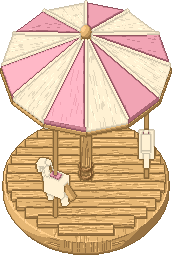
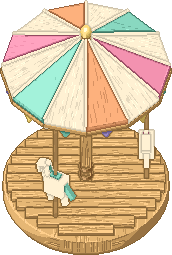
遊具に水面・ガラス・磨いた金属の反射を加える

diff --git a/tools/art/handoff3d/rides.py b/tools/art/handoff3d/rides.py
@@ -6,22 +6,29 @@
 カップ（2×2）：半径1.38の台に半径0.70の軌道を切り、半径
 0.41のカップ2個を置く。カップの壁と底は一体。取っ手は外壁に
 両端を止め、内側の座面は底から少し上に取りつける。
+中央に青い釉薬の水盤を固定し、底から0.07上に水面を張る。
 空中ブランコ（2×2）：高さ4.16の柱を半径0.72の基礎に固定。
 半径0.72の回転頭に3組の吊り材をつなぎ、高さ1.57の座板を吊るす。
 観覧車（3×2）：左右に開く支柱を基礎から車軸（高さ2.94）へ
 つなぐ。半径1.55の二重の輪を8本のスポークで車軸に固定。
 4個のゴンドラを輪の横軸に吊り、座面を横軸の0.49下に置く。
+窓は背と正面にガラスをはめる。こわれた絵は片側の窓が外れる。
 """
 from math import cos, sin, sqrt, tau
 
 from common import WOOD
 
-PINK = (241, 164, 180)
+PINK = (243, 146, 176)
 CREAM = (255, 241, 211)
 MINT = (143, 208, 186)
+RIDE_MINT = (137, 216, 192)
 GOLD = (222, 176, 116)
 TRIM = (168, 118, 111)
-BLUE = (206, 233, 231)
+BLUE = (166, 222, 237)
+LILAC = (189, 169, 231)
+PEACH = (253, 177, 125)
+SUN = (252, 219, 126)
+SILVER = (189, 205, 216)
 BRASS = (184, 136, 83)
 LEATHER = (159, 102, 95)
 SEATS = {"merry": 3, "cup": 2, "skyswing": 3, "wheel": 4}
@@ -42,7 +49,7 @@ def carousel(m, phase, broken, seats):
     m.rod((0, 0, .24), (.13 if broken else 0, 0, 2.65), .075, GOLD, surface="wood")
     for z in (.34, .47, 1.95):
         m.lathe([(.082, z), (.105, z), (.105, z+.04), (.082, z+.04)],
-                BRASS, z*.05 if broken else 0, surface="metal")
+                BRASS, z*.05 if broken else 0, surface="polished")
     roof_x = .18 if broken else 0
     for panel in range(12):
         if broken and panel in (1, 2):
@@ -51,14 +58,21 @@ def carousel(m, phase, broken, seats):
         b = (panel + 1) * tau / 12
         x, y, z = polar(1.31, a, 2.14 + .10 * cos(a) * broken)
         u, v, w = polar(1.31, b, 2.14 + .10 * cos(b) * broken)
-        color = PINK if panel % 2 else CREAM
+        color = (PINK, CREAM, PEACH, CREAM, RIDE_MINT, CREAM)[panel % 6]
         m.part(color, surface="cloth")
         m.sc.tri((roof_x, 0, 2.65), (x, y, z), (u, v, w), m.color(color))
         m.sc.quad((x, y, z), (u, v, w), (u, v, w-.10),
                   (x, y, z-.10), m.color(color))
         m.rod((x, y, z-.095), (u, v, w-.095), .019, GOLD)
         m.rod((roof_x, 0, 2.65), (x, y, z+.015), .014, CREAM)
-    m.ball((roof_x, 0, 2.69), .09, GOLD)
+        if not broken:
+            cx, cy = (x+u)/2, (y+v)/2
+            m.part((RIDE_MINT, SUN, LILAC)[panel % 3], surface="cloth")
+            m.sc.tri((x*.34+cx*.66, y*.34+cy*.66, z-.10),
+                     (u*.34+cx*.66, v*.34+cy*.66, w-.10),
+                     (cx, cy, (z+w)/2-.235),
+                     m.color((RIDE_MINT, SUN, LILAC)[panel % 3]))
+    m.ball((roof_x, 0, 2.69), .09, SUN, surface="polished")
     for index in range(3):
         angle = phase + index * tau / 3
         x, y, z = polar(.94, angle, .84)
@@ -70,18 +84,19 @@ def carousel(m, phase, broken, seats):
         if broken and index == 1:
             m.rod((x, y, .31), horse(.16, -.33), .029, TRIM)
             continue
-        m.rod((x, y, .27), (x, y, 2.15), .024, GOLD)
+        trim = (PINK, RIDE_MINT, LILAC)[index]
+        m.rod((x, y, .27), (x, y, 2.15), .024, GOLD, surface="polished")
         m.rod(horse(-.17, 0), horse(.15, 0), .115, CREAM)
         m.rod(horse(.12, .02), horse(.18, .25), .065, CREAM)
         m.rod(horse(.15, .23), horse(.30, .19), .065, CREAM)
         m.rod(horse(.15, .23), horse(.13, .32), .027, CREAM)
-        m.rod(horse(-.16, .025), horse(-.32, -.13), .038, GOLD)
-        m.rod(horse(.095, .15), horse(.145, .247), .028, GOLD)
+        m.rod(horse(-.16, .025), horse(-.32, -.13), .038, trim)
+        m.rod(horse(.095, .15), horse(.145, .247), .028, trim)
         m.ball(horse(.235, .234), .025, LEATHER)
         m.rod(horse(.205, .15), horse(.27, .20), .017, LEATHER)
         for along in (-.12, .13):
             m.rod(horse(along, -.03), horse(along-.05, -.28), .039, CREAM)
-        m.rod(horse(-.075, .105), horse(.075, .105), .045, PINK)
+        m.rod(horse(-.075, .105), horse(.075, .105), .045, trim)
         seats.append(horse(0, .14))
     if broken:
         m.rod((-.91, .63, .33), (-.42, .88, .39), .052, CREAM)
@@ -89,33 +104,48 @@ def carousel(m, phase, broken, seats):
 
 def cups(m, phase, broken, seats):
     m.lathe([(0, 0), (1.32, 0), (1.38, .11), (1.38, .23),
-             (1.30, .30), (0, .30)], MINT)
-    m.lathe([(0, .30), (.12, .30), (.10, .67), (0, .69)], GOLD)
-    m.ball((0, 0, .70), .10, PINK)
+             (1.30, .30), (0, .30)], RIDE_MINT)
+    m.lathe([(0,.30),(.11,.30),(.105,.49),(.169,.54),(.244,.64),
+             (.253,.68),(.253,.703),(.213,.703),(.184,.602),
+             (0,.601)], BLUE, surface="enamel")
+    m.lathe([(.229,.69),(.256,.69),(.258,.713),(.223,.713)],
+            CREAM, surface="enamel")
+    m.lathe([(0,.60),(.048,.60),(.037,.743),(0,.765)], GOLD, surface="polished")
+    finial = (0, 0, .775)
+    m.ball(finial, .054, SUN, surface="polished")
+    if not broken:
+        m.water_disk(.222, .674, (102, 204, 233), (finial, .054, SUN))
     m.lathe([(1.29,.231),(1.37,.231),(1.36,.265),(1.29,.265)], CREAM)
     for i in range(12):
-        m.ball(polar(1.29, i*tau/12, .262), .025, BRASS, surface="metal")
+        m.ball(polar(1.29, i*tau/12, .269), .036,
+               (SUN, PEACH, LILAC)[i % 3], surface="enamel")
     for index in range(2):
         angle = phase + index * tau / 2
         x, y, _ = polar(.70, angle, 0)
         z = .32
-        color = PINK if index else GOLD
+        color = PINK if index else LILAC
         first = m.sc.pid
         m.lathe([(0, z), (.24, z), (.34, z+.13), (.41, z+.47),
-                 (.355, z+.47), (.295, z+.16), (0, z+.16)], color, x, y)
+                 (.355, z+.47), (.295, z+.16), (0, z+.16)], color, x, y,
+                surface="enamel")
         m.lathe([(.344, z+.20), (.365, z+.20), (.369, z+.23),
                  (.349, z+.23)], CREAM, x, y)
         m.lathe([(.357, z+.47), (.412, z+.47), (.412, z+.52),
-                 (.357, z+.52), (.357, z+.47)], CREAM, x, y)
-        m.box((x-.19, y-.10, z+.16), (x+.19, y+.05, z+.22), MINT)
-        m.rod((x,y,z+.15), (x,y,z+.31), .033, BRASS, surface="metal")
+                 (.357, z+.52), (.357, z+.47)], CREAM, x, y, surface="enamel")
+        for j in range(8):
+            a = angle+j*tau/8
+            dx, dy, dz = polar(.379, a, z+.30)
+            m.ball((x+dx,y+dy,dz), .035, SUN, surface="enamel")
+        m.box((x-.19, y-.10, z+.16), (x+.19, y+.05, z+.22), RIDE_MINT)
+        m.rod((x,y,z+.15), (x,y,z+.31), .033, BRASS, surface="polished")
         wheel = [(x+.095*cos(i*tau/20), y+.095*sin(i*tau/20), z+.31)
                  for i in range(21)]
         m.tube(wheel, .018, CREAM)
         if not (broken and index == 1):
             m.tube([(x+(.34+.13*sin(k*tau/16))*cos(angle),
                      y+(.34+.13*sin(k*tau/16))*sin(angle),
-                     z+.28+.12*cos(k*tau/16)) for k in range(9)], .035, color)
+                     z+.28+.12*cos(k*tau/16)) for k in range(9)], .035,
+                   color, surface="enamel")
         if broken and index == 1:
             m.tilt(first, (x, y, z), -.31)
         seats.append((x, y, z+.22))
@@ -127,33 +157,38 @@ def swing(m, phase, broken, seats):
     m.lathe([(0, 0), (.68, 0), (.72, .11), (.67, .22),
              (.31, .27), (0, .27)], GOLD)
     top = (.23 if broken else 0, 0, 4.16)
-    m.rod((0, 0, .22), top, .079, GOLD, surface="metal")
+    m.rod((0, 0, .22), top, .079, GOLD, surface="polished")
     m.lathe([(.13,.22),(.23,.22),(.19,.34),(.16,.49),(.10,.49)],
-            BRASS, surface="metal")
+            BRASS, surface="polished")
     for i in range(6):
-        m.ball(polar(.59, i*tau/6, .216), .029, BRASS, surface="metal")
+        m.ball(polar(.59, i*tau/6, .216), .029, BRASS, surface="polished")
     m.lathe([(0, 4.04), (.74, 4.04), (.78, 4.17), (.71, 4.25),
-             (.10, 4.42), (0, 4.42)], PINK, top[0])
+             (.10, 4.42), (0, 4.42)], PINK, top[0], surface="enamel")
+    m.lathe([(.75,4.08),(.782,4.08),(.782,4.124),(.75,4.124)], SUN,
+            top[0], surface="polished")
     m.ball((top[0], 0, 4.48), .081, CREAM)
     for i in range(12):
         x, y, z = polar(.742, i*tau/12, 4.17)
-        m.ball((x+top[0], y, z), .041, CREAM)
+        m.ball((x+top[0], y, z), .041, (CREAM, SUN, LILAC)[i % 3],
+               surface="enamel")
     for index in range(3):
         angle = phase + index * tau / 3
         x, y, z = polar(1.20 if not broken else .81, angle, 1.57)
         hx, hy, hz = polar(.70, angle, 4.10)
         if broken and index == 1:
-            m.rod((hx+top[0], hy, hz), (hx+.38, hy, 2.40), .020, MINT)
+            m.rod((hx+top[0], hy, hz), (hx+.38, hy, 2.40), .020, RIDE_MINT)
             continue
         for side in (-1, 1):
             m.rod((hx+top[0]+side*.09, hy, hz),
-                  (x+side*.15, y, z+.03), .019, MINT)
-        m.box((x-.19, y-.12, z-.05), (x+.19, y+.12, z+.04), PINK)
+                  (x+side*.15, y, z+.03), .019, RIDE_MINT)
+        color = (PINK, RIDE_MINT, LILAC)[index]
+        m.box((x-.19, y-.12, z-.05), (x+.19, y+.12, z+.04), color,
+              surface="enamel")
         m.box((x-.19, y-.13, z+.04), (x+.19, y-.08, z+.21), CREAM,
               surface="cloth")
         for side in (-1, 1):
             sx = x+side*.175
-            m.rod((sx,y-.10,z+.13), (sx,y+.095,z+.13), .024, PINK)
+            m.rod((sx,y-.10,z+.13), (sx,y+.095,z+.13), .024, color)
             m.ball((sx,y+.09,z+.12), .026, CREAM)
         seats.append((x, y, z+.04))
 
@@ -168,8 +203,8 @@ def wheel(m, phase, broken, seats):
     m.box((-.35,.62,.074),(.35,.72,.119), WOOD)
     for side in (-1, 1):
         for y in (-.58, .51):
-            m.rod((side*1.06, y, .12), (hub[0], y, hub[2]), .089, MINT,
-                  surface="metal")
+            m.rod((side*1.06, y, .12), (hub[0], y, hub[2]), .089, RIDE_MINT,
+                  surface="polished")
             x = side*1.06
             m.box((x-.15,y-.10,.144), (x+.15,y+.10,.21), BRASS)
             for dx in (-.109, .109):
@@ -186,14 +221,19 @@ def wheel(m, phase, broken, seats):
             angles = [tau*i/48 for i in range(4, 45)]
         else:
             angles = [tau*i/48 for i in range(49)]
-        m.tube([rim(a, y) for a in angles], .046, PINK)
+        m.tube([rim(a, y) for a in angles], .046, PINK, surface="polished")
         for index in range(8):
             a = phase + index*tau/8
             if not broken and index % 2 == 0:
                 m.tube([rim(a+tau*j/192, y, 1.572) for j in range(-4, 5)],
-                       .039, CREAM)
+                       .039, SUN, surface="polished")
             if not broken or index not in (1, 7):
-                m.rod((hub[0], y, hub[2]), rim(a, y), .024, GOLD)
+                m.rod((hub[0], y, hub[2]), rim(a, y), .024, SILVER, surface="polished")
+    if not broken:
+        for i in range(24):
+            x, y, z = rim(phase+i*tau/24, -.019, 1.574)
+            m.ball((x,y,z), .042, (SUN, CREAM, RIDE_MINT, LILAC)[i % 4],
+                   surface="enamel")
     for index in range(4):
         if broken and index == 2:
             continue
@@ -201,15 +241,25 @@ def wheel(m, phase, broken, seats):
         x, y, z = rim(a, -.01)
         m.rod((x, -.35, z), (x, .11, z), .038, TRIM)
         m.rod((x, .11, z), (x, .11, z-.17), .033, GOLD)
-        color = PINK if index % 2 else MINT
+        color = (RIDE_MINT, PINK, LILAC, PEACH)[index]
         m.box((x-.25, -.07, z-.55), (x+.25, .26, z-.43), color)
         m.box((x-.25, -.07, z-.24), (x+.25, .26, z-.17), CREAM)
         for dx in (-.25, .19):
             m.box((x+dx, -.07, z-.44), (x+dx+.06, .26, z-.23), color)
-        m.box((x-.19, -.075, z-.44), (x+.19, -.025, z-.23), BLUE)
+        m.part(BLUE, surface="glass")
+        glass = m.color(BLUE)
+        m.sc.quad((x-.189,-.071,z-.434),(x+.189,-.071,z-.434),
+                  (x+.189,-.071,z-.239),(x-.189,-.071,z-.239), glass)
+        if not broken or index != 1:
+            # 少し張り出した窓。角の面が斜めなので、正面からも反射が見える。
+            panes = ((-.189,.207),(-.140,.242),(0,.246),(.140,.242),(.189,.207))
+            for (u, v), (a, b) in zip(panes, panes[1:]):
+                m.sc.quad((x+u,v,z-.434),(x+a,b,z-.434),
+                          (x+a,b,z-.239),(x+u,v,z-.239), glass)
+        m.rod((x,.25,z-.43),(x,.25,z-.227), .013, color, surface="polished")
         if not broken:
             m.rod((x-.19,.253,z-.29), (x+.19,.253,z-.29), .018, color,
-                  surface="metal")
+                  surface="polished")
         for dx in (-.15,.15):
             m.ball((x+dx,.25,z-.466), .028, CREAM)
         seats.append((x, .12, z-.43))

diff --git a/tools/art/handoff3d/render.py b/tools/art/handoff3d/render.py
@@ -1,7 +1,7 @@
 """引き継ぎ用の透過 PNG と比較図。チップの登録はしない。"""
 import argparse
 import json
-from math import cos, sin, tau
+from math import cos, radians, sin, tau
 from pathlib import Path
 import subprocess
 import sys
@@ -50,10 +50,14 @@ class Model:
 
     def material(self, color, smooth, surface):
         surface = "wood" if surface is None and color == WOOD else surface
-        self.sc.texture(SURFACES.get(surface))
+        self.sc.texture(SURFACES.get("metal" if surface == "polished" else surface))
         # The stone normal map follows world-space surfaces, including cut faces.
         self.sc.bump(self.stone_relief() if surface == "stone" else None)
-        self.sc.material("flat" if color == CREAM else None)
+        finish = {"polished": "metal" if self.faded else "shinym",
+                  "enamel": None if self.faded else "shiny",
+                  "glass": "glass", "water": "clear"}.get(
+                      surface, "flat" if color == CREAM else None)
+        self.sc.material(finish)
         self.sc.smooth(smooth or surface == "stone")
 
     def stone_relief(self):
@@ -96,6 +100,41 @@ class Model:
         build(self.sc, [Part("板", "prism", (points, low, high, "z"),
                              self.color(color))])
 
+    def water_disk(self, radius, z, color, ornament):
+        """水面の小波。波の面で空と水盤の金の飾りを反射する。"""
+        self.part(color, surface="water")
+        angle = radians(ELEV)
+        eye = np.array((0, cos(angle), sin(angle)))
+        tint = np.array(color)
+        sky = np.array((225, 244, 255))
+        center, ornament_radius, gold = ornament
+        ripple = ((0, .000), (.22, .007), (.44, -.004), (.65, .006),
+                  (.83, -.003), (1, .000))
+        for (r0, h0), (r1, h1) in zip(ripple, ripple[1:]):
+            for i in range(24):
+                a, b = i*tau/24, (i+1)*tau/24
+                points = np.array([(r*radius*cos(t), r*radius*sin(t),
+                                    z+h*(.82+.18*cos(3*t))) for r, h, t in
+                                   ((r0,h0,a),(r1,h1,a),(r1,h1,b),(r0,h0,b))])
+                for face in (points[[0,1,2]], points[[0,2,3]]):
+                    normal = np.cross(face[1]-face[0], face[2]-face[0])
+                    area = np.linalg.norm(normal)
+                    if area < 1e-10:
+                        continue
+                    normal /= area
+                    facing = max(0, float(eye@normal))
+                    ray = 2*facing*normal-eye
+                    to_ornament = np.asarray(center)-face.mean(axis=0)
+                    t = float(to_ornament@ray)
+                    hits = t > 0 and np.linalg.norm(to_ornament-t*ray) < ornament_radius
+                    # 反射色は視線の角度に合わせる。水底との合成は clear が行う。
+                    fresnel = .08 + .92*(1-facing)**5
+                    reflected = np.asarray(gold) if hits else sky
+                    if hits:
+                        fresnel = max(.32, fresnel)
+                    paint = tuple(np.rint(tint*(1-fresnel)+reflected*fresnel))
+                    self.sc.tri(*face, paint)
+
     def rock(self, x, y, z, width, height, angle, color):
         self.part(color, surface="stone")
         rings = [[(x+width*r*cos(angle+i*tau/5), y+width*r*sin(angle+i*tau/5),
@@ -136,7 +175,17 @@ def render(model, ext, ground, parallel=False):
     O.GRAD = True
     image = O.render_px(model.sc, projection, ext, depth, k=.80, k2=.90,
                         lw=LW, merge=0)
-    image = furntone.tone(image, dw=0, streak=(.22, .13), world=furntone.worldlight(KEEP))
+    toned = furntone.tone(image, dw=0, streak=(.22, .13),
+                         world=furntone.worldlight(KEEP))
+    reflective = [pid for pid, finish in O.LAST_MT.items()
+                  if finish in {"metal", "shinym", "shiny"}]
+    if reflective:
+        # 金属・釉薬はレンダラーで求めた反射光を使う。輪郭と透過面は合成済み。
+        mask = np.isin(O.LAST_IDS, reflective) & ~O.LAST_LINE & ~O.LAST_CLR
+        pixels = np.array(toned)
+        pixels[mask] = np.asarray(image)[mask]
+        toned = Image.fromarray(pixels)
+    image = toned
     anchor = tuple(round(v*SCALE) for v in (ext[0], ext[2]))
     bounds = image.getbbox()
     assert bounds and 0 < bounds[0] < bounds[2] < image.width, (bounds, ext)

diff --git a/handoff/from-gpt.md b/handoff/from-gpt.md
@@ -6,6 +6,10 @@
 
 ### H-1 遊園地の遊具
 
+- 回転木馬の屋根に3色の布と小旗、馬に色違いの鞍とたてがみを付けた。カップはピンクとすみれ色の釉薬、空中ブランコは色違いの座席、観覧車は4色のゴンドラと輪の小さな飾り灯にした。
+- コーヒーカップの中央に水盤を付けた。水底が透け、小波の角度から空の光と中央の金の飾りの反射を求めて写した。壊れた水盤は水が抜けている。
+- 観覧車は前後の窓をガラスにした。張り出した窓の面ごとに透け方と光沢が変わり、壊れた絵では前の窓が一つ外れている。輪・金具には金属の光沢、カップの釉薬には陶器の光沢をつけた。
+
 - メリーゴーラウンド、コーヒーカップ、空中ブランコ、観覧車を3Dで組み、動く絵とこわれた絵を写した。こわれた絵は、屋根板の欠け、カップの傾き、ちぎれた吊り材、切れた観覧車の輪で見分けられる。回転木馬には板張りの床と屋根の縫い目、カップには中のハンドル、空中ブランコには座席の手すり、観覧車には台の足金物と乗り口の段を足した。
 - 台、柱、屋根などの見え方が変わらないドットは `*_static.png`。動く部品とかくれ方で変わる部分は `*_motion.png`。静止画の上に各コマを重ね、完成コマの `*_frames.png` と全ドットが一致することを確認した。左から右、上から下へ16コマで1周。観覧車のゴンドラの座面は、どのコマでも水平。
 - 足もとは、元の絵の左上からメリーゴーラウンド、コーヒーカップ、空中ブランコがゲームの点で `(32,56)`、観覧車が `(48,56)`。以下はそこからの g64 のドット。右と下が正。ゲームの点に直すときは2で割る。
@@ -18,7 +22,7 @@
 | 観覧車 | `(99,-186)`, `(0,-91)`, `(-99,-186)`, `(0,-280)` |
 
 - 全16コマの座席の位置、絵の左上と大きさは [sprites.json](files/H-1/sprites.json)。`rideAng` に `phase_factor` をかけた角度を1周16等分してコマを選び、同じコマの `seats[コマ][座席番号]` を `windRidePose` に使う。前後の描画順は、実際にせいれいを乗せるときに確認する。
-- 8まいの見本を `chipcheck.py` で確認。20〜25色、半透明0、にた色0組。輪郭が2ドット以上の所は4〜578、孤立ドットは69〜414。色数、輪郭、細い線の点に目安を超える所がある。
+- 8まいの見本を `chipcheck.py` で確認。30〜90色、半透明0。64色以内の絵ではにた色0組。輪郭が2ドット以上の所は6〜445、孤立ドットは118〜441。色数、輪郭、細い線の点に目安を超える所がある。
 - [仮の絵との比較](files/H-1/cmp_x4.png) ・ [遊具の設計図](../tools/art/handoff3d/rides.py)
 
 ゲームのマップでの確認とチップへの登録は、絵の確認のあと。
